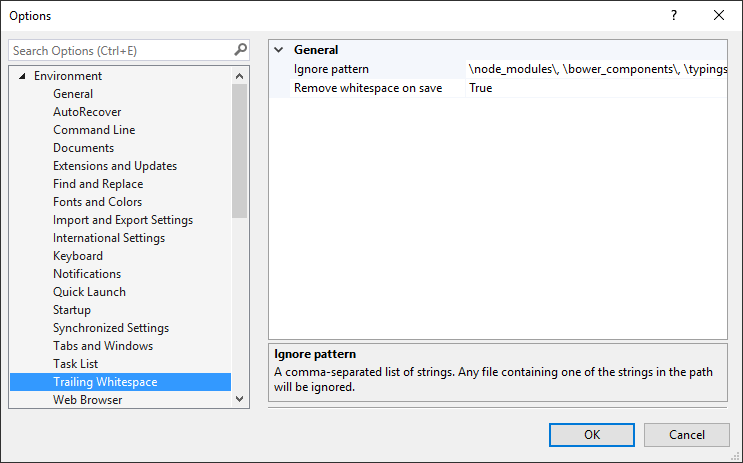
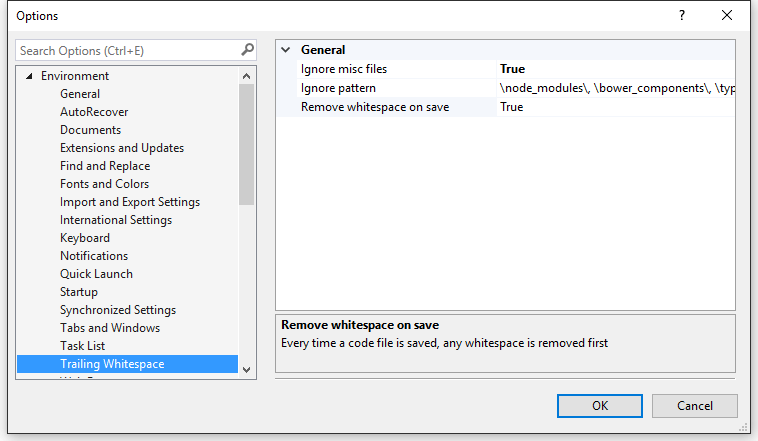
Option to ignore misc files Fixed #24

Changed region(s): [[0.0, 0.0, 1.0, 1.0], [0.6501, 0.2358, 0.712, 0.2653], [0.8977, 0.0295, 0.9287, 0.059]]

diff --git a/src/Helpers/FileHelpers.cs b/src/Helpers/FileHelpers.cs
@@ -1,6 +1,7 @@
 using System;
 using System.IO;
 using System.Linq;
+using EnvDTE80;
 using Microsoft.VisualStudio.Shell.Interop;
 using Microsoft.VisualStudio.Text;
 using Microsoft.VisualStudio.TextManager.Interop;
@@ -9,27 +10,48 @@ namespace TrailingWhitespace
 {
     static class FileHelpers
     {
+        private const string _propKey = "TrailingEnabled";
+
         public static bool IsFileSupported(ITextBuffer buffer)
         {
+            // For some reason, the IClassifierProvider gets called twice. 
+            // Here we check if the value has been stored alewSY so we don't run twice.
+            bool isEnabled;
+            if (buffer.Properties.TryGetProperty(_propKey, out isEnabled))
+                return isEnabled;
+
             string fileName = buffer.GetFilePath();
 
             // Check if filename is absolute because when debugging, script files are sometimes dynamically created.
             if (string.IsNullOrWhiteSpace(fileName) || !Path.IsPathRooted(fileName))
-                return false;
-
-            string extension = Path.GetExtension(fileName);
+                return PersistantReturnValue(buffer, false);
 
             var patterns = VSPackage.Options.GetIgnorePatterns();
 
             if (patterns.Any(p => fileName.IndexOf(p, StringComparison.OrdinalIgnoreCase) > -1))
-                return false;
+                return PersistantReturnValue(buffer, false);
 
             // Ignore files containing the string: <auto-generated>
             string content = buffer.CurrentSnapshot.GetText();
             if (content.IndexOf("<auto-generated>", StringComparison.OrdinalIgnoreCase) > -1)
-                return false;
+                return PersistantReturnValue(buffer, false);
 
-            return true;
+            if (VSPackage.Options.IgnoreMiscFiles)
+            {
+                var dte = (DTE2)VSPackage.GetGlobalService(typeof(EnvDTE.DTE));
+                if (dte != null && dte.Solution.FindProjectItem(fileName) == null)
+                    return PersistantReturnValue(buffer, false);
+            }
+
+            return PersistantReturnValue(buffer, true);
+        }
+
+        private static bool PersistantReturnValue(ITextBuffer buffer, bool value)
+        {
+            if (buffer.Properties.ContainsProperty(_propKey))
+                buffer.Properties.AddProperty(_propKey, value);
+
+            return value;
         }
 
         public static string GetFilePath(this ITextBuffer buffer)

diff --git a/src/Options.cs b/src/Options.cs
@@ -11,6 +11,7 @@ namespace TrailingWhitespace
         {
             RemoveWhitespaceOnSave = true;
             IgnorePatterns = @"\node_modules\, \bower_components\, \typings\, \lib\, .min., .md, .markdown";
+            IgnoreMiscFiles = false;
         }
 
         [Category("General")]
@@ -24,6 +25,12 @@ namespace TrailingWhitespace
         [Description("A comma-separated list of strings. Any file containing one of the strings in the path will be ignored.")]
         [DefaultValue(@"\node_modules\, \bower_components\, \typings\, \lib\, .min., .md, .markdown")]
         public string IgnorePatterns { get; set; }
+
+        [Category("General")]
+        [DisplayName("Ignore misc files")]
+        [Description("When true, whitespace in files that don't belong to the project will not be shown.")]
+        [DefaultValue(false)]
+        public bool IgnoreMiscFiles { get; set; }
 
         public IEnumerable<string> GetIgnorePatterns()
         {

diff --git a/src/source.extension.cs b/src/source.extension.cs
@@ -6,7 +6,7 @@ namespace TrailingWhitespace
         public const string Name = "Trailing Whitespace Visualizer";
         public const string Description = "Makes it easier than ever to identify and remove trailing whitespace in any code file";
         public const string Language = "en-US";
-        public const string Version = "2.2";
+        public const string Version = "2.3";
         public const string Author = "Mads Kristensen";
         public const string Tags = "whitespace";
     }

diff --git a/src/Classifier/ClassifierProvider.cs b/src/Classifier/ClassifierProvider.cs
@@ -8,7 +8,7 @@ namespace TrailingWhitespace
 {
     [Export(typeof(IClassifierProvider))]
     [ContentType("text")]
-    [TextViewRole(PredefinedTextViewRoles.Interactive)]
+    [TextViewRole(PredefinedTextViewRoles.PrimaryDocument)]
     class TrailingClassifierProvider : IClassifierProvider
     {
         [Import]
